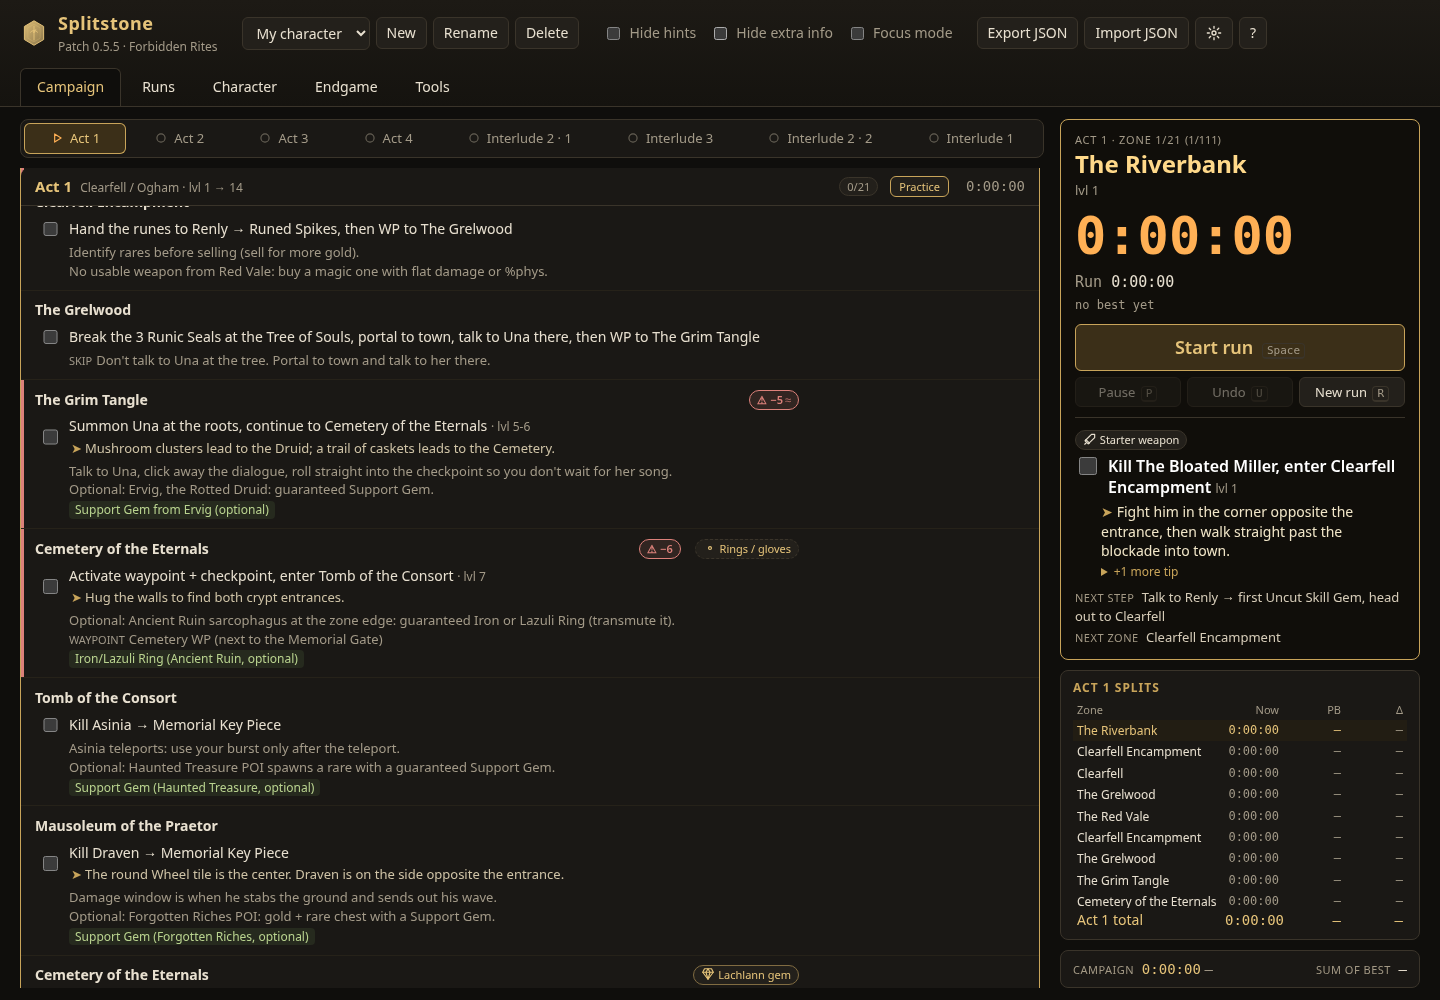
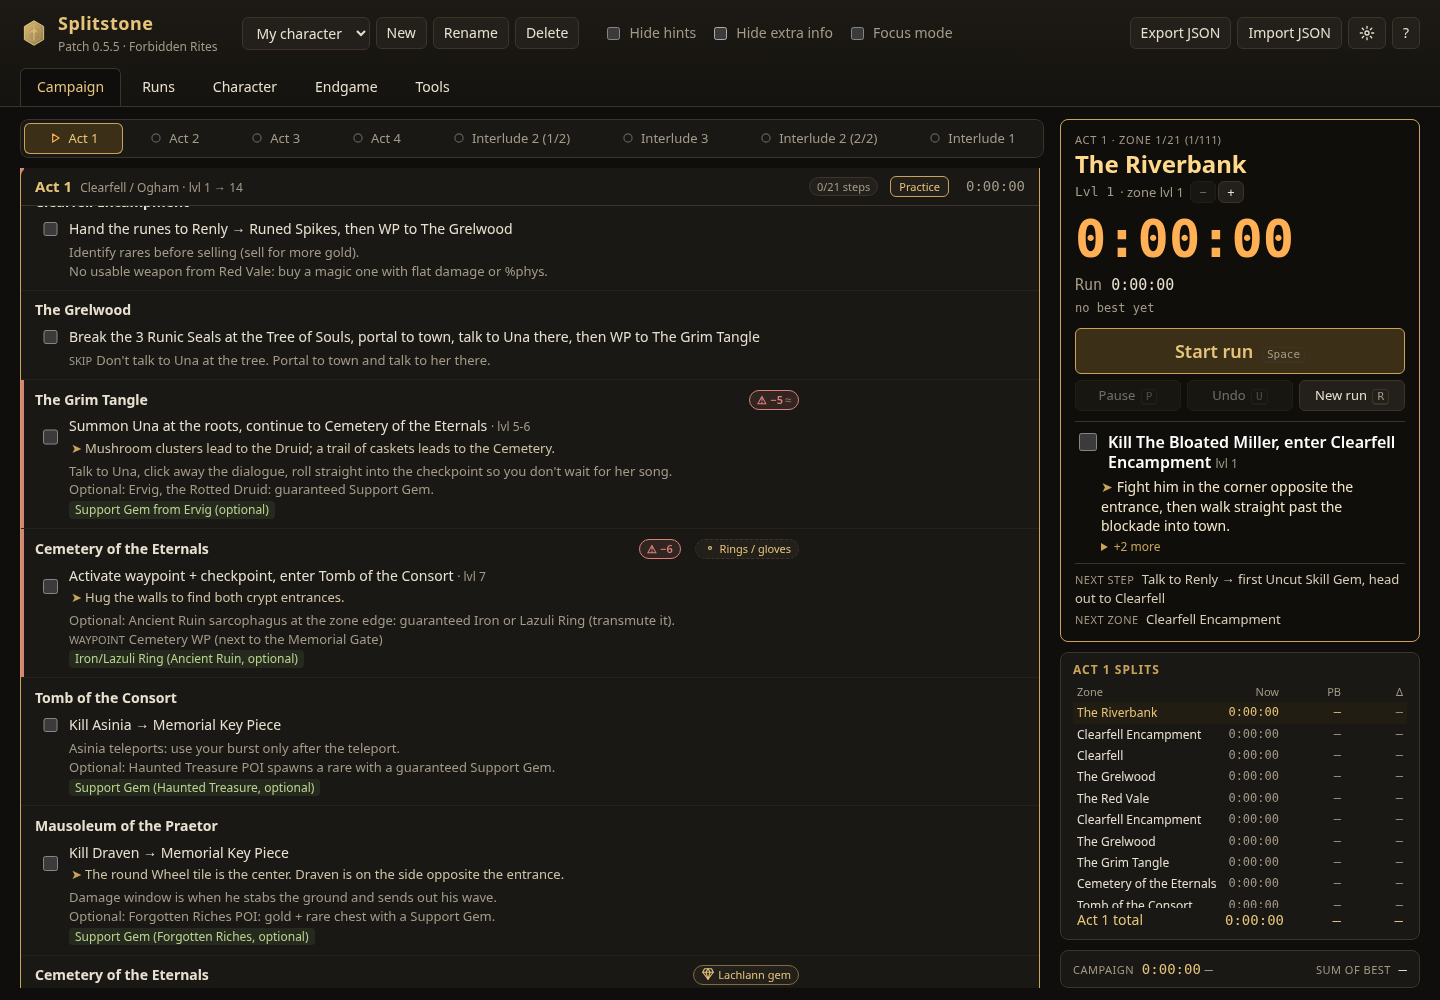
README, changelog and screenshots for the review fixes

diff --git a/README.md b/README.md
@@ -27,7 +27,7 @@ Global hotkeys. Change them under Settings → Desktop → Global hotkeys in the
 | `Ctrl+Alt+P` | Pause / resume |
 | `Ctrl+Alt+R` | New run (press twice within 3 s) |
 | `Ctrl+Alt+H` | Show / hide hints |
-| `Ctrl+Alt+O` | Lock / unlock the overlay (unlocked = drag to move) |
+| `Ctrl+Alt+O` | Lock / unlock the overlay (unlocked = drag to move, corner to resize) |
 
 Auto-update is on by default (Settings → Desktop to turn off). Full releases only get full releases; prerelease builds also see prereleases. A build that crashes on launch can't update itself, so reinstall from the link above.
 
@@ -37,14 +37,14 @@ Auto-update is on by default (Settings → Desktop to turn off). Full releases o
 
 | | |
 | --- | --- |
-| **Run panel** | Zone, timers, Split, current objective, hint and next step beside the checklist, readable from a second monitor |
+| **Run panel** | Zone, timers, Split, current objective with one hint, and the next step beside the checklist, readable from a second monitor. The ghost line opens a picker; −/+ on the level cue |
 | **One act at a time** | Act and interlude tabs in route order; follows your run, C jumps back to the current zone |
 | **Splits and timers** | Per-zone segments, act and interlude totals, pause, undo, auto-advance |
 | **Routes** | Normal or speedrun route, required-steps-only, practice a single act or zone, custom shareable routes |
 | **History and PBs** | Per-character runs, PBs, gold segments, live delta, trend charts, CSV export |
 | **Ghost race** | Race your PB, best segments, any past run or a friend's ghost: ahead/behind per split, where the ghost is now, time gained or lost per act |
 | **Auto-split** | Splits on zone changes from PoE2's `Client.txt` |
-| **Cues** | Basic-class notes, level/XP warnings, gear and gem checkpoints |
+| **Cues** | Basic-class notes, level/XP warnings, gear and gem checkpoints. The desktop app can keep your level from your own level-ups in `Client.txt` |
 | **Overlay** | Small panel at the top centre with the current step and the next step; move it, resize it, the text scales to fit |
 | **Endgame** | Map runs with tier, mods, deaths and loot; session stats; atlas progress checklist |
 | **Tools** | One-click links to trade, poe2db, the wiki, PoB2, poe.ninja and more |
@@ -56,9 +56,13 @@ A browser tab can't sit on top of a fullscreen game, so the desktop app draws a 
 
 ![Overlay](screenshots/overlay-top-center.png)
 
+### Character level from Client.txt
+
+Put your character's in-game name on the Character tab and the desktop app sets the level whenever `Client.txt` logs "<name> (<class>) is now level N". Without a name, the run panel asks the first time it sees a level-up whether that's the character you're playing. Only the game's own level-up line is read: chat can't fake it, and other players' level-ups are ignored. Nothing is sent anywhere and nothing is written to the game. You can also nudge the level with −/+ on the run panel.
+
 ### Endgame
 
-Log each map with its tier and waystone mods, then mark it completed or failed, count deaths and note any loot worth remembering. Sessions give you maps per hour, average map time and totals, and the atlas checklist tracks the Fortress, pinnacle bosses and atlas masters. Endgame data belongs to the selected character. In the desktop app, auto-detect can start and finish map runs from the zone changes it already reads for auto-split; it doesn't read anything new from Client.txt. Everything stays in local storage and goes into the JSON export; map timers from 1.0 are carried over.
+Log each map with its tier and waystone mods, then mark it completed or failed, count deaths and note any loot worth remembering. Sessions give you maps per hour, average map time and totals, and the atlas checklist tracks the Fortress, pinnacle bosses and atlas masters. Endgame data belongs to the selected character. In the desktop app, auto-detect can start and finish map runs from the zone changes it already reads for auto-split. Everything stays in local storage and goes into the JSON export; map timers from 1.0 are carried over.
 
 ![Endgame](screenshots/endgame.png)
 
@@ -66,7 +70,7 @@ The checklist lives in `data/endgame.js`. Items I couldn't confirm in patch note
 
 ### Ghost race
 
-Turn it on under Settings → Ghost race. Pick what to race on the Runs tab: your PB (default), your best segments, any saved run of this character, or a ghost a friend sent you. You get the delta for every split and in total, a line under the run timer saying which zone the ghost would be in right now, and how much you gained or lost in each act and interlude. To share a ghost, copy its code (`SSG1.…`) from the panel; to race someone, paste their code or load their Splitstone export file. Only zone times are taken from imports. The overlay stays current step and next step only.
+Turn it on under Settings → Ghost race. Pick what to race on the Runs tab, or click the ghost line under the run timer: your PB (default), your best segments, any saved run of this character, or a ghost a friend sent you. You get the delta for every split and in total, a line under the run timer saying which zone the ghost would be in right now, and how much you gained or lost in each act and interlude. To share a ghost, copy its code (`SSG1.…`) from the panel; to race someone, paste their code or load their Splitstone export file. Only zone times are taken from imports. The overlay stays current step and next step only.
 
 ![Ghost race](screenshots/ghost-mode.png)
 

diff --git a/CHANGELOG.md b/CHANGELOG.md
@@ -2,13 +2,24 @@
 
 ## Unreleased
 
-- Campaign page uses the full window: the checklist on the left and a run panel on the right, in a centred column up to 1600px wide. On desktop the page doesn't scroll; the checklist and the act splits scroll inside their own areas.
+- Campaign page uses the full window: the checklist on the left and a run panel on the right, in a centred column up to 1840px wide, with the header and tabs lined up with it. The run panel is 400px wide from 1800px. On desktop the page doesn't scroll; the checklist and the act splits scroll inside their own areas.
 - One act at a time. A tab strip above the checklist lists the acts and interludes in the order the route plays them, each marked done, current or upcoming, with that act's time and delta in the tooltip. Arrow keys, Home and End move between tabs.
 - The current act is selected on load and whenever a split takes you into a new act. Browsing another act doesn't snap back; a "Current act" button and the C hotkey go back to the current act and zone. The act you picked is remembered per character, outside the save file.
-- Completed zones fold to one line (name, time, delta); click to open one. The current and upcoming zones stay open.
+- Completed zones fold to one line (name, time, delta); click anywhere on the row to open one. The current and upcoming zones stay open.
+- Act tabs read "Interlude 2 (1/2)" and "(2/2)", and the Runs table lists acts and interludes in the same route order, with the Interlude 2 total after its second part. The act badge says "4/23 steps".
+- When the act strip doesn't fit, the edge with more tabs fades. Practising a single act or zone shows "Practice: …" instead of a lone tab.
+- Jumping to the current zone lands on a zone boundary under the act header, or at the top when the zone fits there.
+- During a run the route bar is one line ("Normal clear · Full campaign · Edit ▸"); Edit opens the full bar.
 - Run panel: zone and progress, the segment timer with run time, live delta and the ghost line, Split with Pause, Undo and New run under it, the current step with one hint and the next step, the act's splits against your PB, and the campaign total with sum of best.
+- The panel shows the step's objective and one hint; gear checkpoints, other hints, route info, class notes and the zone's other steps sit behind "+N more". Next step is always on screen, also at 1280x720 and 1366x768, where the act splits fold to the current zone and the act total.
+- Click the ghost line to pick a different ghost without leaving Campaign; "More on Runs" opens the full ghost panel. With nothing to race it says "Pick a ghost on Runs".
+- The level cue on the panel has −/+. In the desktop app, set your in-game name on the Character tab and the level follows your level-ups in Client.txt. Only the game's own "is now level" line for that name is read; chat and other players are ignored. Without a name, the panel asks before using a level-up.
 - New Runs tab with run history, run analytics and CSV, the full Run & Segments table and the ghost race panel. New Character tab with the character details and PoB2 import. Tabs are now Campaign, Runs, Character, Endgame and Tools.
-- Between 860 and 1279px the panel is narrower and the act splits show the current zone and the act total, with a button to show all. On phones the compact now-bar stays at the top with Split and the timers, the act tabs scroll sideways under it, and the act splits sit below the checklist.
+- Between 960 and 1279px the panel is narrower and the act splits show the current zone and the act total, with a button to show all. Under 960px there's one column, so the checklist never drops below 560px: the compact now-bar stays at the top with Split and the timers, the act tabs scroll sideways under it, and the act splits sit below the checklist.
+- Phones: all five tabs fit from about 380px wide, and the row scrolls sideways on narrower screens. The tab row slides away while you scroll down and comes back when you scroll up.
+- Runs: the "Run analytics & CSV" link (to the same page) is gone. Character and the other tabs use the same centred container as Campaign.
+- Accessibility: one main landmark around the tab panels, and the Runs table's first column header is labelled.
+- Desktop: `desktop/package.json` declares Node 22 or newer for development.
 - Desktop overlay is smaller: it shows only the current step and the next step. Hints stay in the app. The default panel is about 400x72 at 1080p, scaled to the screen height, centred at the top below the boss health bar.
 - Unlock the overlay (`Ctrl+Alt+O` or the tray) to drag it anywhere and resize it from the bottom-right corner. Size and position are remembered. The text scales to fit the window you set; a very long step is cut short only at the smallest text size.
 - The overlay text size option is gone. If you had Small or Large, the overlay starts at a matching smaller or larger size.
